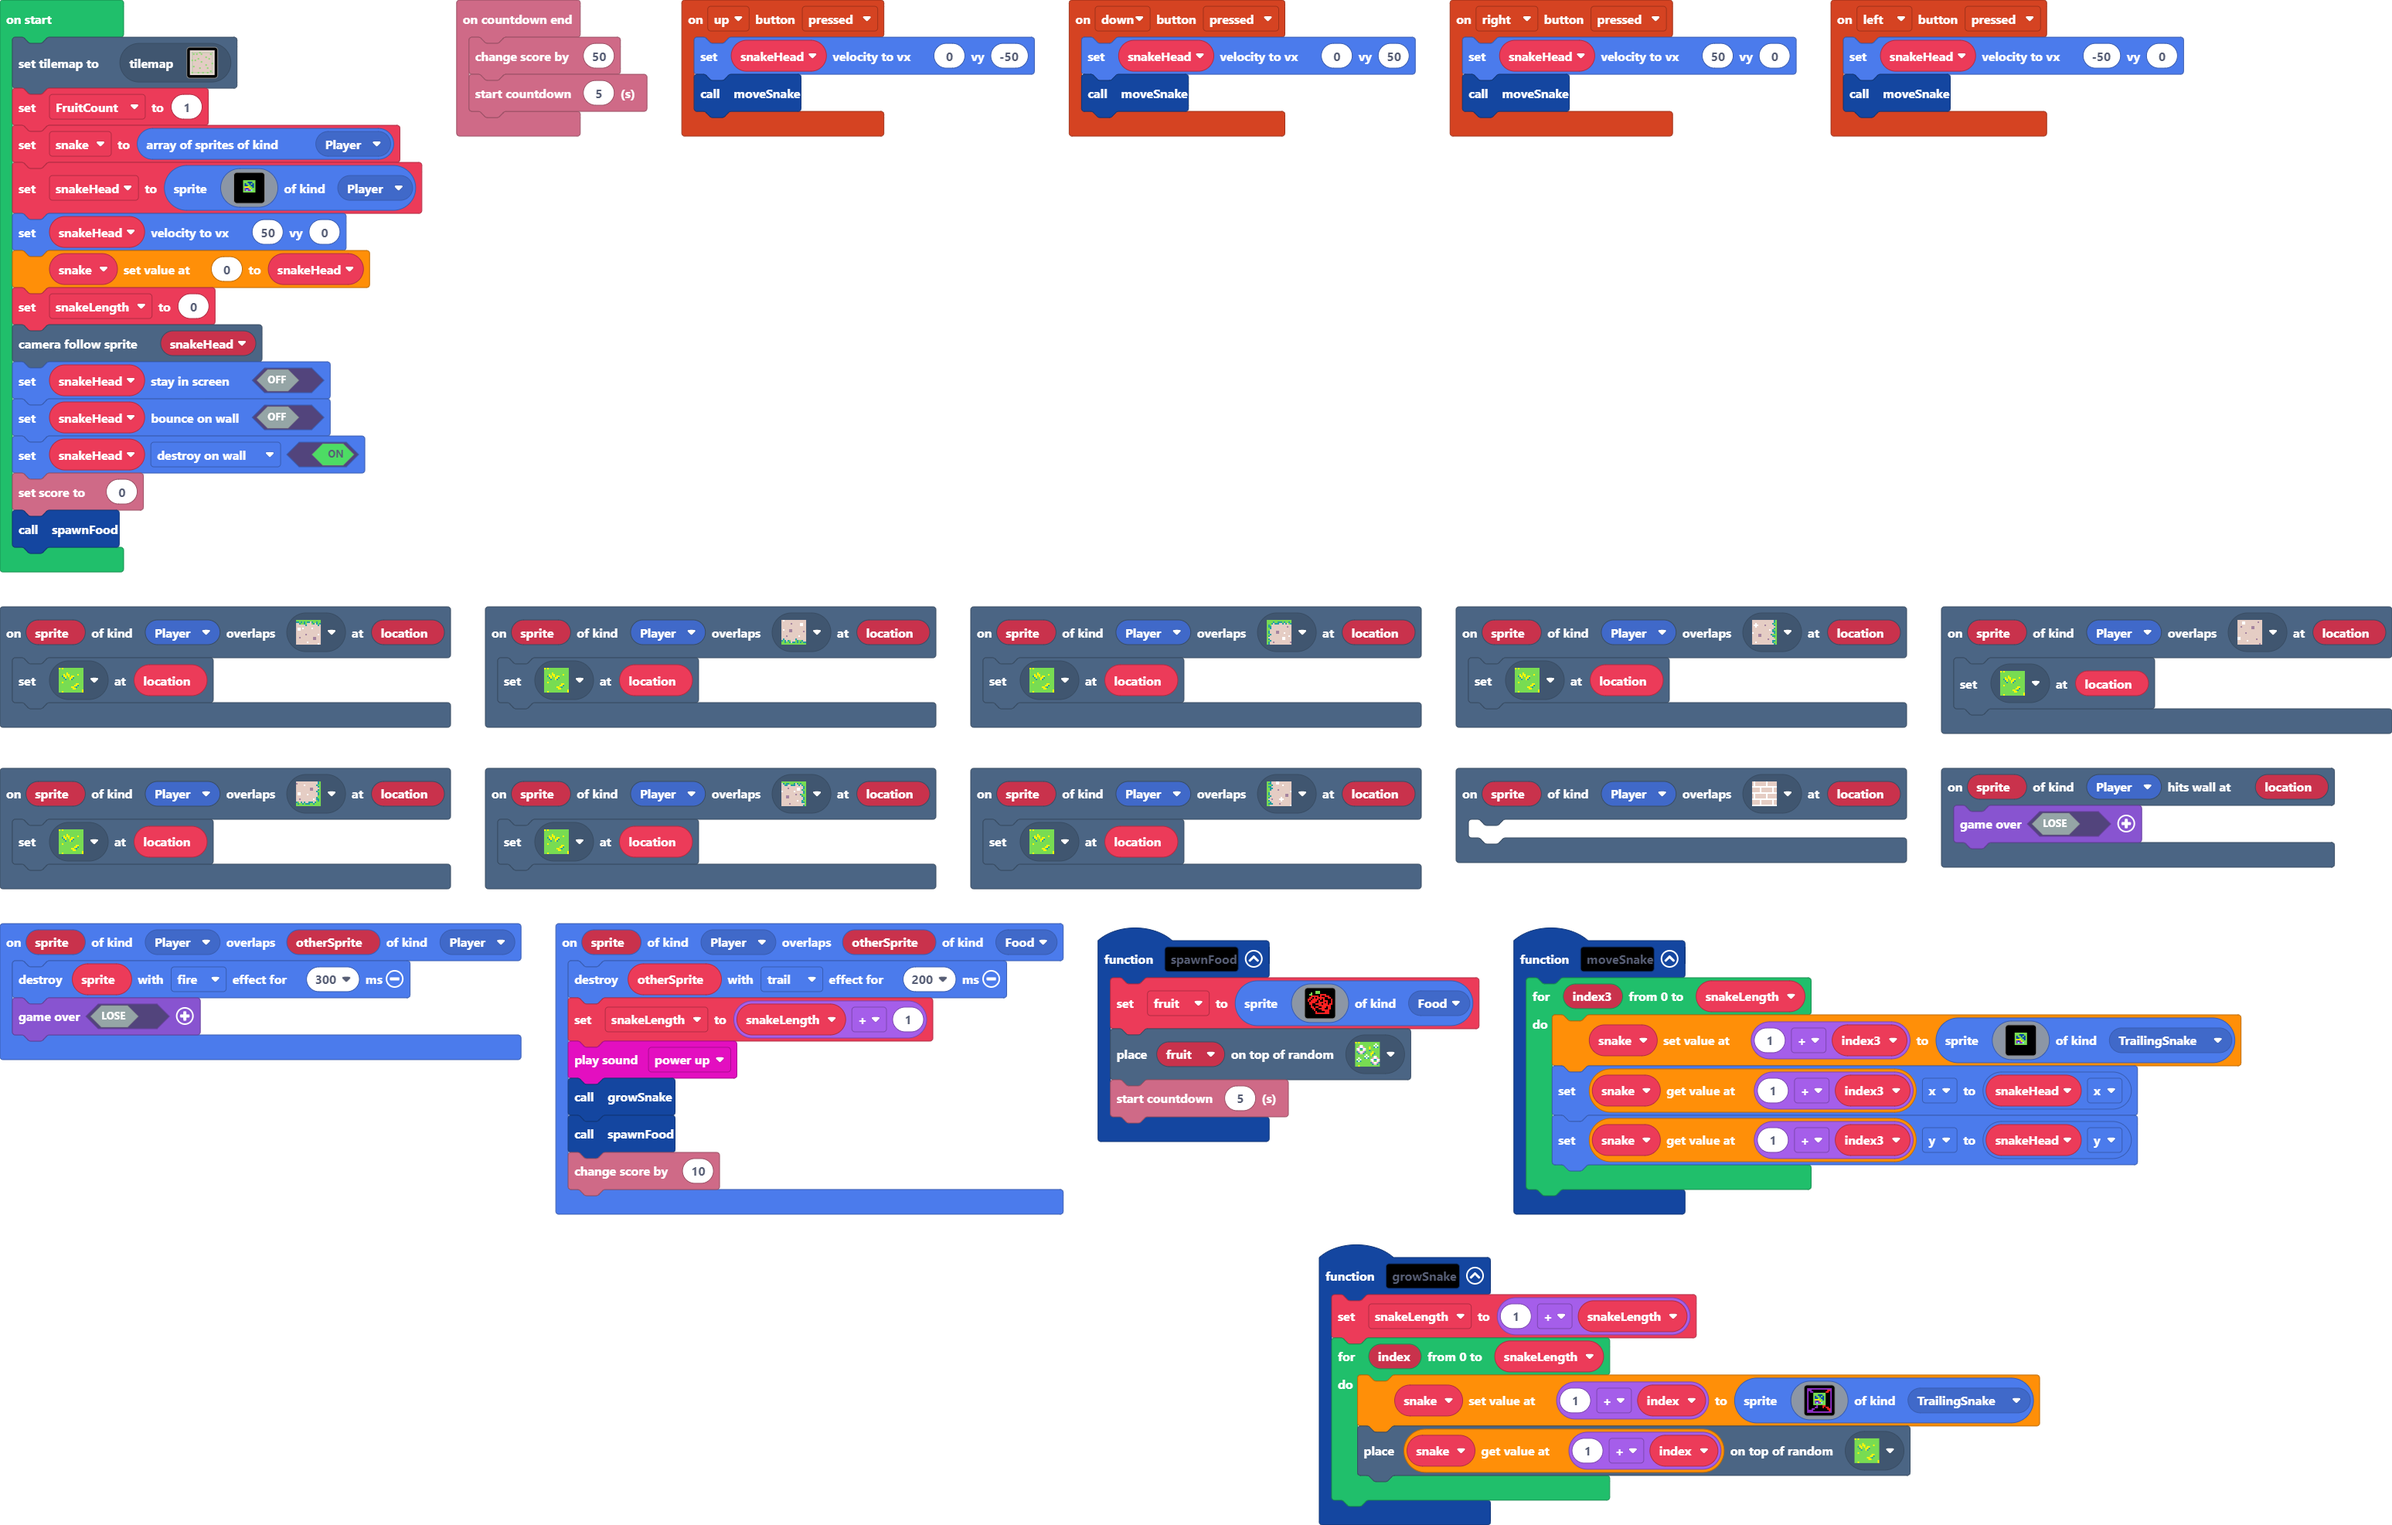
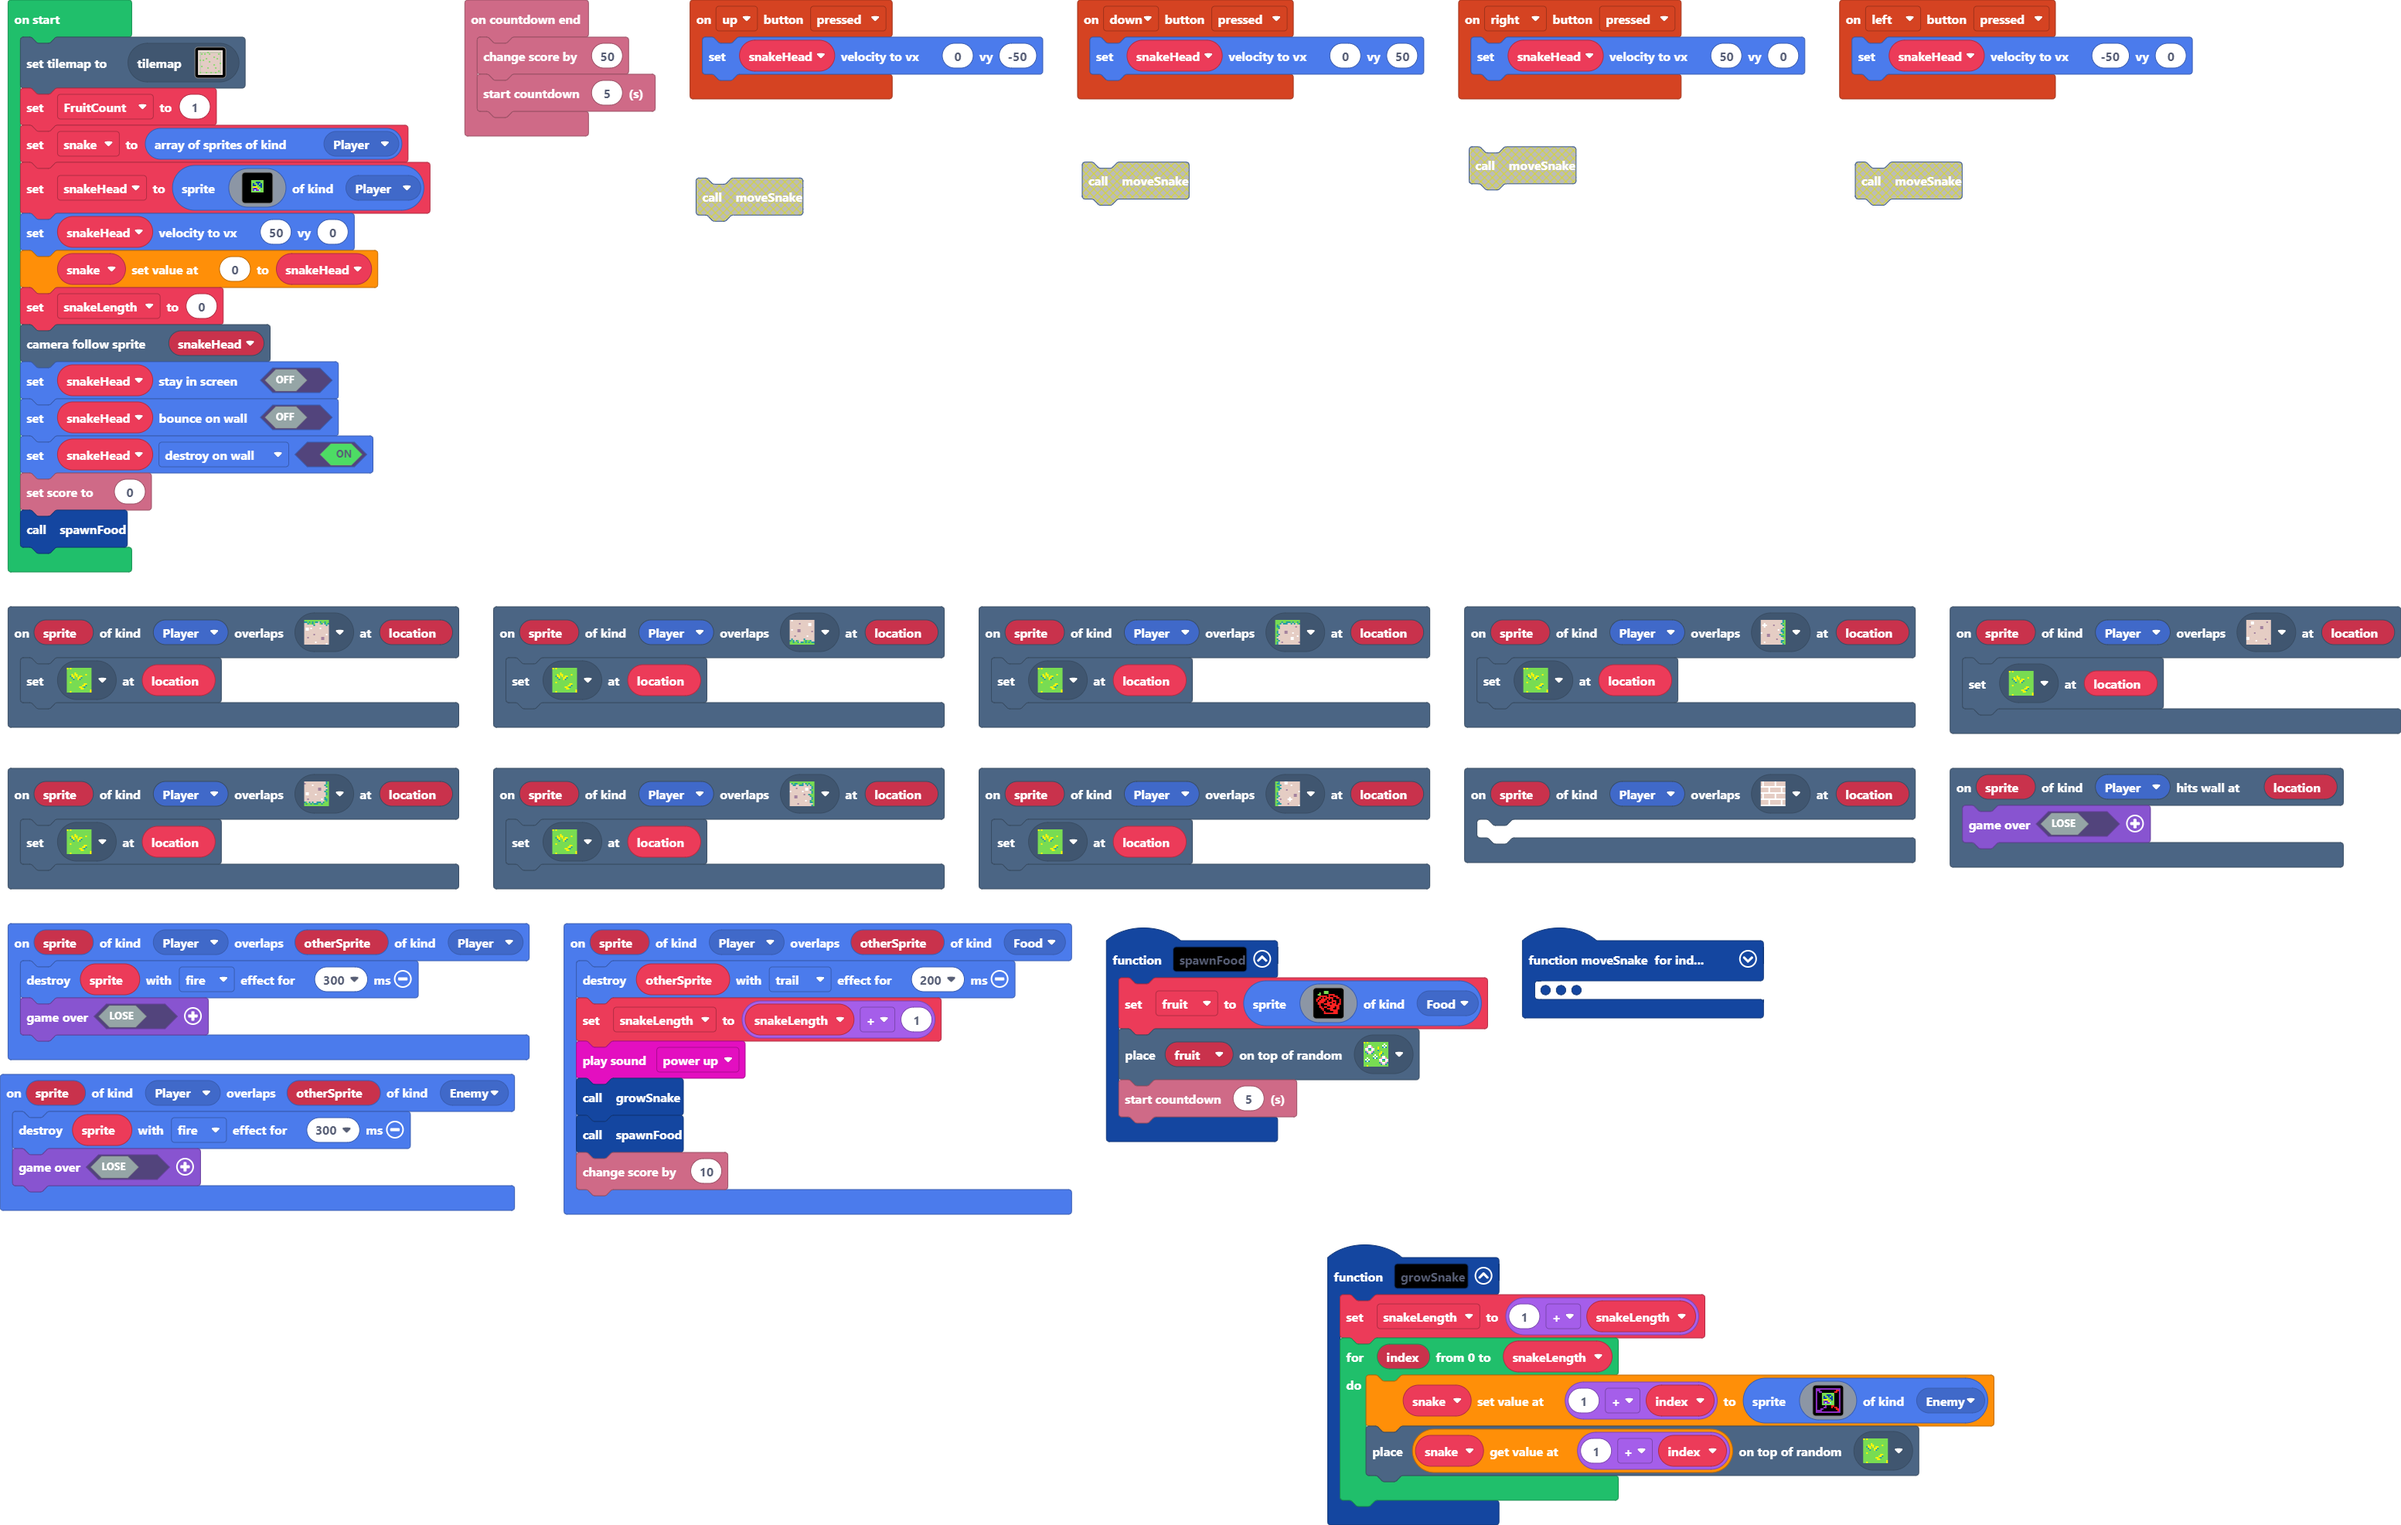
update end states

diff --git a/main.ts b/main.ts
@@ -6,7 +6,6 @@ scene.onOverlapTile(SpriteKind.Player, sprites.castle.tilePath4, function (sprit
 })
 controller.up.onEvent(ControllerButtonEvent.Pressed, function () {
     snakeHead.setVelocity(0, -50)
-    moveSnake()
 })
 scene.onHitWall(SpriteKind.Player, function (sprite, location) {
     game.over(false)
@@ -41,7 +40,6 @@ scene.onOverlapTile(SpriteKind.Player, sprites.builtin.brick, function (sprite, 
 })
 controller.left.onEvent(ControllerButtonEvent.Pressed, function () {
     snakeHead.setVelocity(-50, 0)
-    moveSnake()
 })
 info.onCountdownEnd(function () {
     info.changeScoreBy(50)
@@ -70,13 +68,12 @@ function growSnake () {
             a . . a a . . . . . . . . 2 2 a 
             a a a a . . . . . . . . . . 2 a 
             a a a a a a a a a a a a a a a a 
-            `, SpriteKind.TrailingSnake)
+            `, SpriteKind.Enemy)
         tiles.placeOnRandomTile(snake[1 + index], sprites.castle.tileGrass3)
     }
 }
 controller.right.onEvent(ControllerButtonEvent.Pressed, function () {
     snakeHead.setVelocity(50, 0)
-    moveSnake()
 })
 scene.onOverlapTile(SpriteKind.Player, sprites.castle.tilePath5, function (sprite, location) {
     tiles.setTileAt(location, sprites.castle.tileGrass3)
@@ -93,7 +90,6 @@ function moveSnake () {
 }
 controller.down.onEvent(ControllerButtonEvent.Pressed, function () {
     snakeHead.setVelocity(0, 50)
-    moveSnake()
 })
 sprites.onOverlap(SpriteKind.Player, SpriteKind.Player, function (sprite, otherSprite) {
     sprite.destroy(effects.fire, 300)
@@ -115,6 +111,10 @@ sprites.onOverlap(SpriteKind.Player, SpriteKind.Food, function (sprite, otherSpr
 })
 scene.onOverlapTile(SpriteKind.Player, sprites.castle.tilePath6, function (sprite, location) {
     tiles.setTileAt(location, sprites.castle.tileGrass3)
+})
+sprites.onOverlap(SpriteKind.Player, SpriteKind.Enemy, function (sprite, otherSprite) {
+    sprite.destroy(effects.fire, 300)
+    game.over(false)
 })
 let fruit: Sprite = null
 let snakeLength = 0
